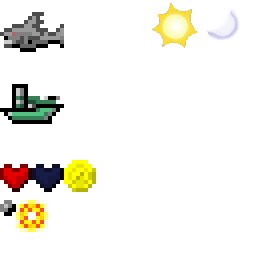
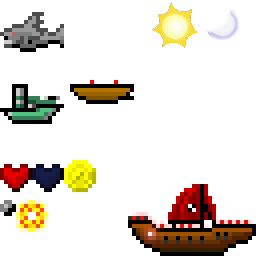
Added PIRATOOS!!

Changed region(s): [[0.5, 0.7188, 1.0, 1.0], [0.25, 0.3125, 0.5312, 0.4062]]

diff --git a/src/mhyhre/lightrabbit/game/EnemiesManager.java b/src/mhyhre/lightrabbit/game/EnemiesManager.java
@@ -4,7 +4,9 @@ import java.util.ArrayList;
 import java.util.List;
 
 import mhyhre.lightrabbit.MainActivity;
-import mhyhre.lightrabbit.Scenes.WaterPolygon;
+import mhyhre.lightrabbit.game.units.PirateBoatUnit;
+import mhyhre.lightrabbit.game.units.PirateShipUnit;
+import mhyhre.lightrabbit.game.units.SharkUnit;
 
 import org.andengine.entity.sprite.batch.SpriteBatch;
 import org.andengine.opengl.texture.region.ITextureRegion;
@@ -27,7 +29,10 @@ public class EnemiesManager extends SpriteBatch {
 	public void update() {
 		
 		ITextureRegion sharkRegion = MainActivity.Res.getTextureRegion("shark_body");
+		ITextureRegion pirateBoatRegion = MainActivity.Res.getTextureRegion("pirate_boat");
+		ITextureRegion pirateShipRegion = MainActivity.Res.getTextureRegion("pirate_ship");
 		
+		float bright, rotation;
 
 		for (int i=0; i<mEnemies.size(); i++) {
 			
@@ -36,9 +41,37 @@ public class EnemiesManager extends SpriteBatch {
 			switch (enemy.getEnemyType()) {
 
 			case PIRATE_BOAT:
+				PirateBoatUnit pirateBoat = (PirateBoatUnit)enemy;
+				
+				pirateBoat.setWaterLevel(mWater.getYPositionOnWave(pirateBoat.getCX()));
+				pirateBoat.update();
+				
+				if(pirateBoat.getY() > MainActivity.getHeight() || pirateBoat.getCX()< -50){
+					mEnemies.remove(i);
+					i--;
+					continue;
+				}
+				rotation = mWater.getAngleOnWave(pirateBoat.getCX()) / 2.0f;
+				bright = pirateBoat.getBright();
+				draw(pirateBoatRegion, pirateBoat.getX(), pirateBoat.getY(), pirateBoat.getWidth(), pirateBoat.getHeight(), rotation, bright, bright, bright, bright);
+							
 				break;
 
 			case PIRATE_SHIP:
+				PirateShipUnit pirateShip = (PirateShipUnit)enemy;
+				
+				pirateShip.setWaterLevel(mWater.getYPositionOnWave(pirateShip.getCX()));
+				pirateShip.update();
+				
+				if(pirateShip.getY() > MainActivity.getHeight() || pirateShip.getCX()< -50){
+					mEnemies.remove(i);
+					i--;
+					continue;
+				}
+				rotation = mWater.getAngleOnWave(pirateShip.getCX()) / 2.0f;
+				bright = pirateShip.getBright();
+				draw(pirateShipRegion, pirateShip.getX(), pirateShip.getY(), pirateShip.getWidth(), pirateShip.getHeight(), rotation, bright, bright, bright, bright);
+					
 				break;
 
 			case SHARK:
@@ -52,9 +85,9 @@ public class EnemiesManager extends SpriteBatch {
 					i--;
 					continue;
 				}
-
-				float bright = shark.getBright();
-				draw(sharkRegion, shark.getX(), shark.getY(), shark.getWidth(), shark.getHeight(), 0, bright, bright, bright, bright);
+				
+				bright = shark.getBright();
+				draw(sharkRegion, shark.getX(), shark.getY(), shark.getWidth(), shark.getHeight(), shark.getCurrentRotation(), bright, bright, bright, bright);
 							
 				break;
 
@@ -70,23 +103,31 @@ public class EnemiesManager extends SpriteBatch {
 
 	public void addNewEnemy(EnemyType enemyType, float centerX, float centerY) {
 
-		switch (enemyType) {
-
-		case PIRATE_BOAT:
-			break;
-
-		case PIRATE_SHIP:
-			break;
-
-		case SHARK:
-			SharkUnit shark = new SharkUnit();
-			shark.setCenteredPosition(centerX, centerY);
-			shark.setSize(64, 64);
-			mEnemies.add(shark);
-			break;
-
-		case UNDEFINED:
-			break;
+		if(mEnemies.size() < ENEMIES_MAX_COUND){
+			
+			switch (enemyType) {
+	
+			case PIRATE_BOAT:
+				PirateBoatUnit pirateBoat = new PirateBoatUnit();
+				pirateBoat.setCenteredPosition(centerX, centerY);
+				mEnemies.add(pirateBoat);
+				break;
+	
+			case PIRATE_SHIP:
+				PirateShipUnit pirateShip = new PirateShipUnit();
+				pirateShip.setCenteredPosition(centerX, centerY);
+				mEnemies.add(pirateShip);
+				break;
+	
+			case SHARK:
+				SharkUnit shark = new SharkUnit();
+				shark.setCenteredPosition(centerX, centerY);
+				mEnemies.add(shark);
+				break;
+	
+			case UNDEFINED:
+				break;
+			}
 		}
 	}
 

diff --git a/src/mhyhre/lightrabbit/Scenes/SceneGame.java b/src/mhyhre/lightrabbit/Scenes/SceneGame.java
@@ -26,6 +26,7 @@ import mhyhre.lightrabbit.game.EnemiesManager;
 import mhyhre.lightrabbit.game.Enemy;
 import mhyhre.lightrabbit.game.EnemyType;
 import mhyhre.lightrabbit.game.SkyManager;
+import mhyhre.lightrabbit.game.WaterPolygon;
 
 import org.andengine.entity.scene.background.Background;
 import org.andengine.entity.sprite.Sprite;
@@ -168,8 +169,6 @@ public class SceneGame extends MhyhreScene {
 
 	private void createGameObjects(){
 		
-		
-		
 		mBullets = new LinkedList<BulletUnit>();
 
 		
@@ -188,7 +187,7 @@ public class SceneGame extends MhyhreScene {
 		bulletBatch = new SpriteBatch(MainActivity.Res.getTextureAtlas("texture01"), 50, MainActivity.Me.getVertexBufferObjectManager());
 		
 		mSkyes = new SkyManager(mBackground, water, MainActivity.Me.getVertexBufferObjectManager());
-
+		
 		spriteGold = new Sprite(300, 10, MainActivity.Res.getTextureRegion("gold"), MainActivity.Me.getVertexBufferObjectManager());
 		
 		textGold = new Text(340, 10, MainActivity.Res.getFont("White Furore"), String.valueOf(totalGold), 20, MainActivity.Me.getVertexBufferObjectManager());
@@ -199,7 +198,7 @@ public class SceneGame extends MhyhreScene {
 		attachChild(mEnemies);
 		attachChild(bulletBatch);
 		attachChild(boat);
-		this.attachChild(water);
+		attachChild(water);
 		
 		attachChild(healthIndicator);
 		attachChild(spriteGold);
@@ -228,10 +227,17 @@ public class SceneGame extends MhyhreScene {
 
 		// Generate new sharks
 		if(mEnemies.getEnemiesList().size() < 1){
+			
+			mEnemies.addNewEnemy(EnemyType.PIRATE_SHIP, 1000, 0);
+			
 			 Random rand = new Random();
-			 for(int i=0; i<rand.nextInt(5)+1; i++){
+			 float r = rand.nextInt(5)+1;
+			 for(int i=0; i< r ; i++){
 				 float x = MainActivity.getWidth() + 10 + rand.nextInt((int) MainActivity.getWidth());
 				 mEnemies.addNewEnemy(EnemyType.SHARK, x, 0);
+				 
+				 x = MainActivity.getWidth() + 10 + rand.nextInt((int) MainActivity.getWidth());
+				 mEnemies.addNewEnemy(EnemyType.PIRATE_BOAT, x, 0);
 			 }
 		}
 

diff --git a/src/mhyhre/lightrabbit/game/units/SharkUnit.java b/src/mhyhre/lightrabbit/game/units/SharkUnit.java
@@ -1,0 +1,58 @@
+package mhyhre.lightrabbit.game.units;
+
+import mhyhre.lightrabbit.game.Enemy;
+import mhyhre.lightrabbit.game.EnemyType;
+
+public class SharkUnit extends Enemy {
+
+	public static final float sSinkSpeed = 1.0f;
+	public static final float sSpeed = 1;
+	
+	float bright;
+	float mWaterLevel;
+	private float currentRotation = 0, targetRotation = 180;
+	
+	
+	public SharkUnit() {
+		super(EnemyType.SHARK, 40);
+		bright = 1;
+		setSize(64, 64);
+	}
+	
+	public float getBright(){
+		return bright;
+	}
+
+	public float getWaterLevel() {
+		return mWaterLevel;
+	}
+
+	public void setWaterLevel(float mWaterLevel) {
+		this.mWaterLevel = mWaterLevel;
+	}
+
+	@Override
+	public void update() {
+		if(mDied == true){
+			mX -= sSpeed;
+			mY += sSinkSpeed;
+			
+			if(currentRotation < targetRotation) currentRotation++;
+			
+			if(bright>0){
+				bright-=0.01f;
+				if(bright<0.1f)
+					bright = 0.0f;
+			}
+		}else{
+			mX -= sSpeed;	
+			mY = (float) (mWaterLevel + 20 * Math.sin(mX/(Math.PI*4)));
+		}
+	}
+
+	public float getCurrentRotation() {
+		return currentRotation;
+	}
+
+	
+}

diff --git a/src/mhyhre/lightrabbit/game/units/PirateShipUnit.java b/src/mhyhre/lightrabbit/game/units/PirateShipUnit.java
@@ -1,19 +1,22 @@
-package mhyhre.lightrabbit.game;
+package mhyhre.lightrabbit.game.units;
 
-public class SharkUnit extends Enemy {
+import mhyhre.lightrabbit.game.Enemy;
+import mhyhre.lightrabbit.game.EnemyType;
+
+public class PirateShipUnit extends Enemy {
+
 
 	public static final float sSinkSpeed = 1.0f;
-	public static final float sSpeed = 1;
+	public static final float sSpeed = 0.3f;
 	
 	float bright;
 	float mWaterLevel;
 	
-	
-	public SharkUnit() {
-		super(EnemyType.SHARK, 150);
+	public PirateShipUnit() {
+		super(EnemyType.PIRATE_SHIP, 300);
 		
-
-		bright = 1;
+		setSize(128, 75);
+		bright=1;
 	}
 	
 	public float getBright(){
@@ -30,6 +33,7 @@ public class SharkUnit extends Enemy {
 
 	@Override
 	public void update() {
+		
 		if(mDied == true){
 			mX -= sSpeed;
 			mY += sSinkSpeed;
@@ -40,9 +44,8 @@ public class SharkUnit extends Enemy {
 			}
 		}else{
 			mX -= sSpeed;	
-			mY = (float) (mWaterLevel + 20 * Math.sin(mX/(Math.PI*4)));
+			mY = (float) (mWaterLevel-65);
 		}
 	}
 
-	
 }

diff --git a/src/mhyhre/lightrabbit/game/units/PirateBoatUnit.java b/src/mhyhre/lightrabbit/game/units/PirateBoatUnit.java
@@ -1,0 +1,50 @@
+package mhyhre.lightrabbit.game.units;
+
+import mhyhre.lightrabbit.game.Enemy;
+import mhyhre.lightrabbit.game.EnemyType;
+
+public class PirateBoatUnit extends Enemy {
+
+	public static final float sSinkSpeed = 1.0f;
+	public static final float sSpeed = 0.5f;
+	
+	float bright;
+	float mWaterLevel;
+	
+	public PirateBoatUnit() {
+		super(EnemyType.PIRATE_BOAT, 60);
+		
+		setSize(64, 22);
+		bright=1;
+	}
+	
+	public float getBright(){
+		return bright;
+	}
+
+	public float getWaterLevel() {
+		return mWaterLevel;
+	}
+
+	public void setWaterLevel(float mWaterLevel) {
+		this.mWaterLevel = mWaterLevel;
+	}
+
+	@Override
+	public void update() {
+		
+		if(mDied == true){
+			mX -= sSpeed;
+			mY += sSinkSpeed;
+			if(bright>0){
+				bright-=0.01f;
+				if(bright<0.1f)
+					bright = 0.0f;
+			}
+		}else{
+			mX -= sSpeed;	
+			mY = (float) (mWaterLevel-14);
+		}
+	}
+
+}

diff --git a/src/mhyhre/lightrabbit/ResourceManager.java b/src/mhyhre/lightrabbit/ResourceManager.java
@@ -122,6 +122,12 @@ public class ResourceManager {
 		region = TextureRegionFactory.extractFromTexture(atlas, 0, 80, 64, 64);
 		regions.put("boat_body", region);
 		
+		region = TextureRegionFactory.extractFromTexture(atlas, 70, 80, 64, 24);
+		regions.put("pirate_boat", region);
+		
+		region = TextureRegionFactory.extractFromTexture(atlas, 128, 180, 128, 78);
+		regions.put("pirate_ship", region);		
+		
 		region = TextureRegionFactory.extractFromTexture(atlas, 0, 0, 64, 64);
 		regions.put("shark_body", region);
 		
@@ -145,6 +151,7 @@ public class ResourceManager {
 		
 		region = TextureRegionFactory.extractFromTexture(atlas, 200, 0, 50, 50);
 		regions.put("moon", region);
+		
 		
 		// Clouds texture
 		atlas = new BitmapTextureAtlas(MainActivity.Me.getTextureManager(), 128, 192, TextureOptions.BILINEAR);

diff --git a/src/mhyhre/lightrabbit/game/SkyManager.java b/src/mhyhre/lightrabbit/game/SkyManager.java
@@ -1,7 +1,6 @@
 package mhyhre.lightrabbit.game;
 
 import mhyhre.lightrabbit.MainActivity;
-import mhyhre.lightrabbit.Scenes.WaterPolygon;
 
 import org.andengine.entity.Entity;
 import org.andengine.entity.scene.background.IBackground;

diff --git a/src/mhyhre/lightrabbit/game/WaterPolygon.java b/src/mhyhre/lightrabbit/game/WaterPolygon.java
@@ -1,4 +1,4 @@
-package mhyhre.lightrabbit.Scenes;
+package mhyhre.lightrabbit.game;
 
 import java.util.ArrayList;
 import java.util.List;
